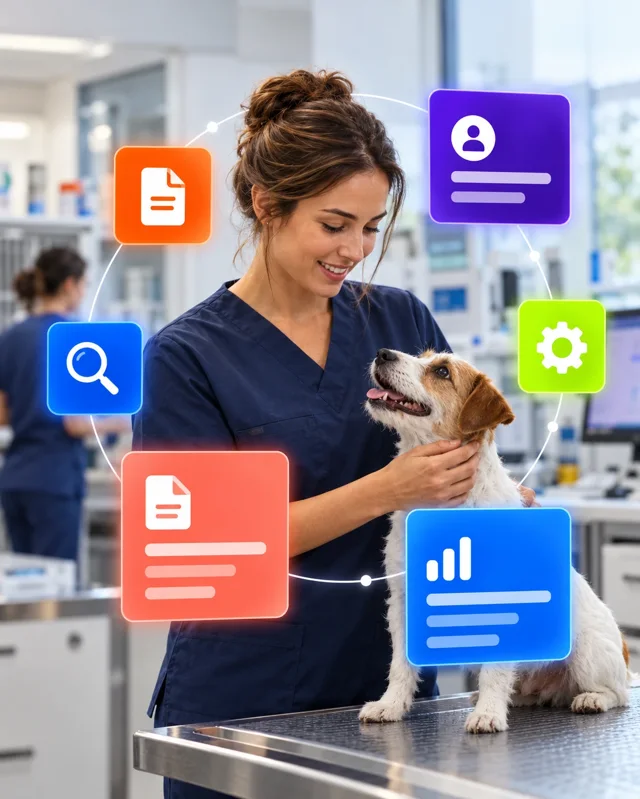
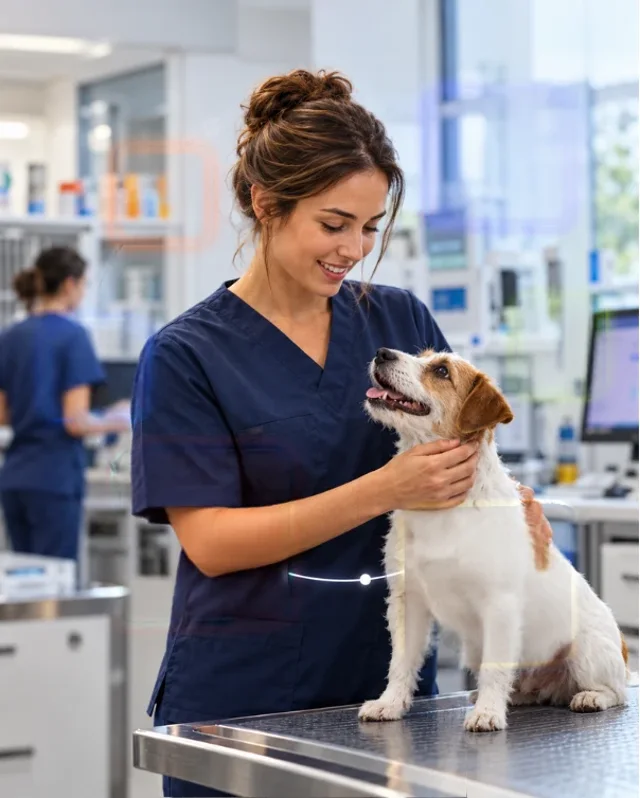
Header : nouvelle image sans pictos + cartes qui gravitent autour
Intègre l'image fournie (vétérinaire + chien, sans les icônes incrustées)
dans un cadre arrondi, et remet les cartes libellées (Formation, Vos
procédures, Accompagnement) + loupe + étincelles qui gravitent autour,
comme le concept déjà présent sur le site. Responsive. Bump cache.

Claude-Session: https://claude.ai/code/session_011J6DUBhtjwTM8zGiLntje8

diff --git a/index.html b/index.html
@@ -6,7 +6,7 @@
 <meta name="description" content="Réveillez le potentiel de votre établissement vétérinaire : formations sur mesure, accompagnants IA et suivi humain. Mieux formé, mieux outillé, mieux encadré.">
 <meta name="theme-color" content="#f6f6f2"><link rel="canonical" href="https://tmclellan007-blip.github.io/nc/">
 <meta property="og:locale" content="fr_CA"><meta property="og:type" content="website"><meta property="og:title" content="La Qualia — Réveillez l’intelligence de votre établissement"><meta property="og:description" content="Formation sur mesure, accompagnants IA et suivi humain pour révéler le potentiel de vos équipes vétérinaires."><meta property="og:url" content="https://tmclellan007-blip.github.io/nc/"><meta property="og:image" content="https://tmclellan007-blip.github.io/nc/assets/partage.png"><meta property="og:image:alt" content="La Qualia : mieux formé, mieux outillé, mieux encadré"><meta name="twitter:card" content="summary_large_image">
-<link rel="icon" href="assets/favicon.svg" type="image/svg+xml"><link rel="stylesheet" href="styles.css?v=20261011f"><script src="app.js?v=20261011f" defer></script><script src="analytics.js?v=20261011f" defer></script>
+<link rel="icon" href="assets/favicon.svg" type="image/svg+xml"><link rel="stylesheet" href="styles.css?v=20261011g"><script src="app.js?v=20261011g" defer></script><script src="analytics.js?v=20261011g" defer></script>
 <script type="application/ld+json">{"@context":"https://schema.org","@graph":[{"@type":"Organization","@id":"https://tmclellan007-blip.github.io/nc/#organisation","name":"La Qualia","url":"https://tmclellan007-blip.github.io/nc/","logo":"https://tmclellan007-blip.github.io/nc/assets/logo-clair.svg","description":"Formation sur mesure et accompagnement intelligent des équipes d’établissements vétérinaires.","sameAs":["https://www.linkedin.com/company/la-qualia/about/?viewAsMember=true"]},{"@type":"WebSite","@id":"https://tmclellan007-blip.github.io/nc/#site","url":"https://tmclellan007-blip.github.io/nc/","name":"La Qualia","inLanguage":"fr-CA","publisher":{"@id":"https://tmclellan007-blip.github.io/nc/#organisation"}},{"@type":"Service","name":"Formation sur mesure et accompagnement des équipes vétérinaires","serviceType":"Formation, accompagnants IA et accompagnement humain","provider":{"@id":"https://tmclellan007-blip.github.io/nc/#organisation"},"audience":{"@type":"Audience","audienceType":"Établissements vétérinaires, gestionnaires et employés"},"description":"Des parcours de formation personnalisés, des accompagnants IA adaptés aux rôles et un suivi humain structuré selon les réalités de l’établissement."}]}</script>
 </head>
 <body>
@@ -16,7 +16,7 @@
 <section class="hero wrap" id="accueil" aria-labelledby="hero-title"><div class="hero-copy"><p class="eyebrow"><span class="dot"></span> POUR LES ÉTABLISSEMENTS VÉTÉRINAIRES</p><h1 id="hero-title">Réveillez<br>l’intelligence<br>de votre<br>établissement<span class="orange">.</span></h1><p class="hero-description">Vos équipes possèdent déjà une richesse de connaissances et d’informations. La Qualia leur donne vie en les rendant intelligentes, accessibles et utiles au quotidien, directement dans les outils que vous utilisez déjà.</p><a class="text-link" href="#approche">Découvrez notre approche <span aria-hidden="true">↓</span></a></div><div class="hero-visual hero-abstract" aria-label="L’humain et les ressources de son établissement au centre de l’accompagnement">
 <div class="hero-cloud cloud-purple" aria-hidden="true"></div><div class="hero-cloud cloud-lime" aria-hidden="true"></div><div class="hero-cloud cloud-coral" aria-hidden="true"></div>
 <svg class="hero-network" viewBox="0 0 560 620" aria-hidden="true"><defs><linearGradient id="hero-orbit"><stop stop-color="#ff735c"/><stop offset=".5" stop-color="#401098"/><stop offset="1" stop-color="#005dff"/></linearGradient></defs><g fill="none"><ellipse cx="290" cy="320" rx="215" ry="245" stroke="url(#hero-orbit)" stroke-width="1.5" opacity=".24" transform="rotate(22 290 320)"/><ellipse cx="290" cy="325" rx="238" ry="173" stroke="#005dff" stroke-width="1" opacity=".15" transform="rotate(-20 290 325)"/><path d="M82 221Q150 87 421 90M111 230Q5 433 436 509M426 92Q562 235 442 507" stroke="#401098" stroke-width="1.5" opacity=".25" stroke-dasharray="3 8"/></g><g><circle cx="95" cy="150" r="6" fill="#ff735c"/><circle cx="506" cy="339" r="5" fill="#005dff"/><circle cx="211" cy="72" r="5" fill="#c7ff00"/><circle cx="93" cy="469" r="4" fill="#401098"/><circle cx="365" cy="558" r="6" fill="#ff5a00"/></g></svg>
-<img class="hero-photo" src="assets/hero-veterinaire.webp" srcset="assets/hero-veterinaire-640.webp 640w, assets/hero-veterinaire.webp 1122w" sizes="(max-width:640px) 80vw,(max-width:900px) 40vw,470px" width="1122" height="1402" alt="Une vétérinaire en tenue bleue avec un chien, entourée d’icônes d’outils numériques (dossiers, recherche, statistiques) qui gravitent autour d’elle." fetchpriority="high">
+<img class="hero-photo" src="assets/hero-veterinaire.webp" width="604" height="754" alt="Une vétérinaire en tenue bleue avec un chien dans une clinique vétérinaire." fetchpriority="high"><a class="context-card context-training" href="#approche"><span class="context-icon" aria-hidden="true"><svg viewBox="0 0 32 32"><path d="m3 12 13-7 13 7-13 7-13-7Zm5 3v8c5 4 11 4 16 0v-8M29 12v10"/></svg></span><span><strong>Formation</strong><small>Apprendre à son rythme</small></span><span class="context-lines" aria-hidden="true"><i></i><i></i></span></a><a class="context-card context-procedures" href="#approche"><span class="context-icon" aria-hidden="true"><svg viewBox="0 0 32 32"><path d="M8 3h11l6 6v20H8V3Zm11 0v7h6M12 15h9M12 20h9M12 25h6"/></svg></span><span><strong>Vos procédures</strong><small>Le bon repère, au bon moment</small></span><span class="context-lines" aria-hidden="true"><i></i><i></i></span></a><a class="context-card context-support" href="#potentiel"><span class="context-icon" aria-hidden="true"><svg viewBox="0 0 32 32"><circle cx="16" cy="10" r="5"/><path d="M6 27v-3a10 10 0 0 1 20 0v3M24 10l2 2 4-4"/></svg></span><span><strong>Accompagnement</strong><small>Un soutien au quotidien</small></span></a><div class="context-search" aria-hidden="true"><svg viewBox="0 0 32 32"><circle cx="13" cy="13" r="8"/><path d="m19 19 8 8"/></svg></div>
 
 
 
